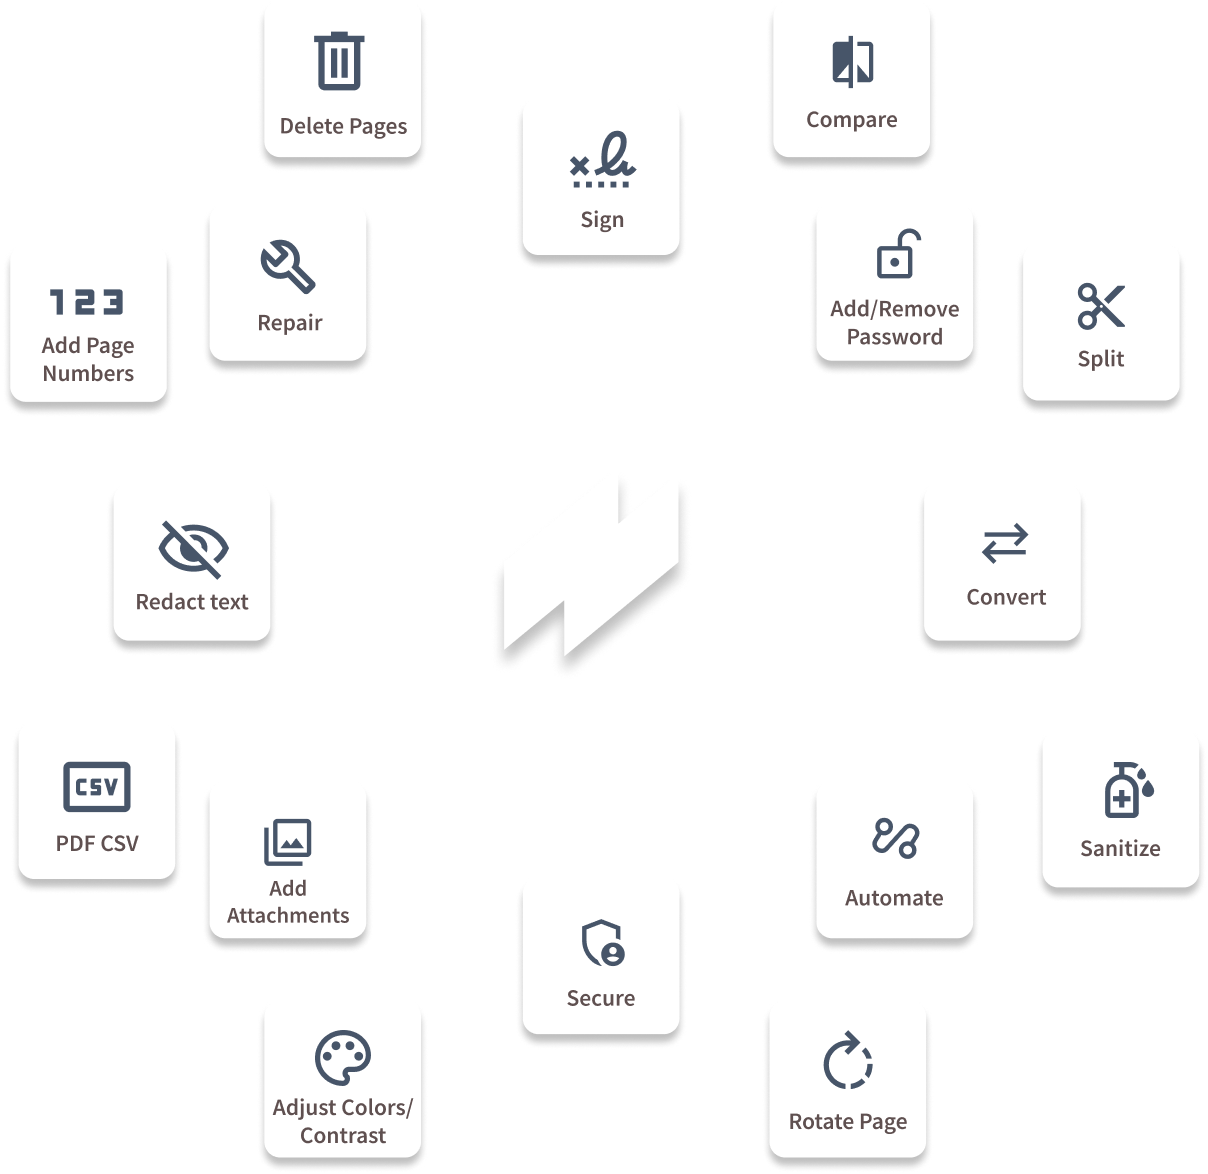
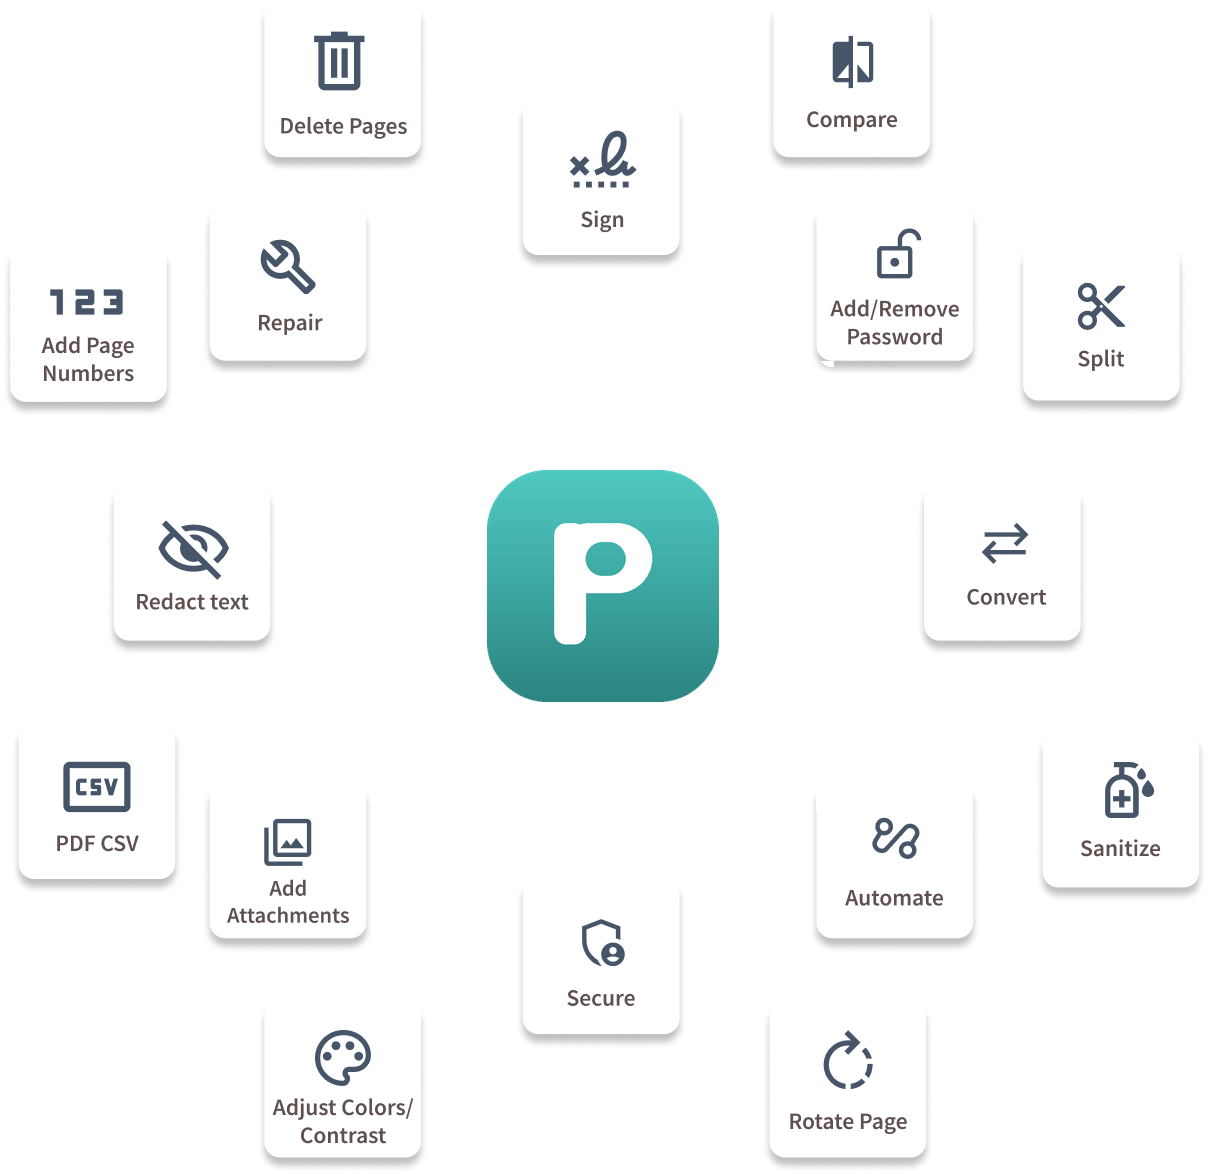
Rebrand remaining Stirling PDF surfaces to Papyra (#28)
* Rebrand onboarding sample PDF from Stirling PDF to Papyra

Regenerates the 3-page tour sample (frontend/editor/public/samples/Sample.pdf)
with Papyra branding: teal wordmark hero, 'What is Papyra?' overview, and a Key
Features page. Removes all 'Stirling PDF' wording and sets the document title to
'Papyra - Sample Document'. The previous sample rendered its text as subset-font
glyphs, so it was regenerated rather than edited in place.

Claude-Session: https://claude.ai/code/session_01Mn9YETALrSRYPj7KVzc6aG

* Rebrand 2FA authenticator issuer default to Papyra

The TOTP otpauth:// URI falls back to a hardcoded issuer when ui.appNameNavbar
is unset. It still read 'Stirling PDF', so authenticator apps enrolled the
account under the old brand even on a rebranded install. Change the default to
'Papyra' (matching the documented fallback in settings.yml.template) and update
TotpServiceTest's default-issuer assertion.

Claude-Session: https://claude.ai/code/session_01Mn9YETALrSRYPj7KVzc6aG

* Rebrand notification emails and signature summary to Papyra

Replaces the remaining user-facing Stirling PDF branding in proprietary output:

- EmailService: the invite, invite-link and password-changed emails now say
  Papyra (subjects, headings, body, CTAs, team signature, copyright), swap the
  hosted Stirling SVG logo for a styled Papyra wordmark, and use the Papyra teal
  (#3AAFA9) accent with a dark (#17252A) header instead of the old blue.
[…]

Changed region(s): [[0.3982, 0.3986, 0.6126, 0.6133]]

diff --git a/frontend/editor/src/proprietary/auth/ui/auth.css b/frontend/editor/src/proprietary/auth/ui/auth.css
@@ -150,7 +150,7 @@
 .auth-checkbox {
   width: 1rem; /* 16px */
   height: 1rem; /* 16px */
-  accent-color: #af3434;
+  accent-color: #3aafa9;
 }
 
 .auth-terms-label {
@@ -658,20 +658,20 @@
   color: var(--auth-text-primary-light-only);
 }
 
-/* Email login button - red CTA style matching SaaS version */
+/* Email login button - teal CTA style matching SaaS version */
 .auth-cta-button {
-  background-color: #af3434 !important;
+  background-color: #3aafa9 !important;
   color: white !important;
   border: none !important;
   font-weight: 600 !important;
 }
 
 .auth-cta-button:hover:not(:disabled) {
-  background-color: #9a2e2e !important;
+  background-color: #2b8480 !important;
 }
 
 .auth-cta-button:disabled {
-  background-color: #af3434 !important;
+  background-color: #3aafa9 !important;
   opacity: 0.6 !important;
 }
 
@@ -722,7 +722,7 @@
 }
 
 .auth-expandable-trigger--active {
-  border-color: #af3434 !important;
+  border-color: #3aafa9 !important;
   box-shadow: 0 0 0 3px rgba(175, 52, 52, 0.12);
 }
 

diff --git a/frontend/editor/src/proprietary/auth/ui/auth-theme.css b/frontend/editor/src/proprietary/auth/ui/auth-theme.css
@@ -11,7 +11,7 @@
   --auth-input-text-light-only: #111827;
   --auth-border-focus-light-only: #3b82f6;
   --auth-focus-ring-light-only: rgba(59, 130, 246, 0.1);
-  --auth-button-bg-light-only: #af3434;
+  --auth-button-bg-light-only: #3aafa9;
   --auth-button-text-light-only: #ffffff;
   --auth-magic-button-bg-light-only: #e5e7eb;
   --auth-magic-button-text-light-only: #374151;
@@ -33,7 +33,7 @@
   --auth-input-text-light-only: var(--text-primary);
   --auth-border-focus-light-only: #3b82f6;
   --auth-focus-ring-light-only: rgba(59, 130, 246, 0.2);
-  --auth-button-bg-light-only: #af3434;
+  --auth-button-bg-light-only: #3aafa9;
   --auth-button-text-light-only: #ffffff;
   --auth-magic-button-bg-light-only: var(--bg-raised);
   --auth-magic-button-text-light-only: var(--text-primary);

diff --git a/frontend/editor/src/proprietary/auth/ui/EmailPasswordForm.tsx b/frontend/editor/src/proprietary/auth/ui/EmailPasswordForm.tsx
@@ -131,7 +131,7 @@ export default function EmailPasswordForm({
         }
         fullWidth
         loading={isSubmitting}
-        // Stirling-red brand CTA; the brand accent sets the colour inline so the
+        // Papyra teal brand CTA; the brand accent sets the colour inline so the
         // host app's Mantine primaryColor can't win (editor vs portal differ).
         accent="brand"
       >

diff --git a/app/proprietary/src/main/java/stirling/software/proprietary/security/service/EmailService.java b/app/proprietary/src/main/java/stirling/software/proprietary/security/service/EmailService.java
@@ -158,7 +158,7 @@ public class EmailService {
     public void sendInviteEmail(
             String to, String username, String temporaryPassword, String loginUrl)
             throws MessagingException {
-        String subject = "Welcome to Stirling PDF";
+        String subject = "Welcome to Papyra";
 
         String body =
                 """
@@ -166,16 +166,16 @@ public class EmailService {
                 <div style="font-family: Arial, sans-serif; background-color: #f8f9fa; padding: 20px;">
                   <div style="max-width: 600px; margin: auto; background-color: #ffffff; border-radius: 8px; overflow: hidden; border: 1px solid #e0e0e0;">
                     <!-- Logo -->
-                    <div style="text-align: center; padding: 20px; background-color: #222;">
-                      <img src="https://raw.githubusercontent.com/Stirling-Tools/Stirling-PDF/main/docs/stirling-transparent.svg" alt="Stirling PDF" style="max-height: 60px;">
+                    <div style="text-align: center; padding: 20px; background-color: #17252A;">
+                      <span style="font-family: Arial, sans-serif; font-size: 30px; font-weight: bold; color: #3AAFA9; letter-spacing: 0.5px;">Papyra</span>
                     </div>
                     <!-- Content -->
                     <div style="padding: 30px; color: #333;">
-                      <h2 style="color: #222; margin-top: 0;">Welcome to Stirling PDF!</h2>
+                      <h2 style="color: #17252A; margin-top: 0;">Welcome to Papyra!</h2>
                       <p>Hi there,</p>
                       <p>You have been invited to join the workspace. Below are your login credentials:</p>
                       <!-- Credentials Box -->
-                      <div style="background-color: #f8f9fa; border-left: 4px solid #007bff; padding: 15px; margin: 20px 0; border-radius: 4px;">
+                      <div style="background-color: #f8f9fa; border-left: 4px solid #3AAFA9; padding: 15px; margin: 20px 0; border-radius: 4px;">
                         <p style="margin: 0 0 10px 0;"><strong>Username:</strong> %s</p>
                         <p style="margin: 0;"><strong>Temporary Password:</strong> %s</p>
                       </div>
@@ -184,18 +184,18 @@ public class EmailService {
                       </div>
                       <!-- CTA Button -->
                       <div style="text-align: center; margin: 30px 0;">
-                        <a href="%s" style="display: inline-block; background-color: #007bff; color: #ffffff; padding: 14px 28px; text-decoration: none; border-radius: 5px; font-weight: bold;">Log In to Stirling PDF</a>
+                        <a href="%s" style="display: inline-block; background-color: #3AAFA9; color: #ffffff; padding: 14px 28px; text-decoration: none; border-radius: 5px; font-weight: bold;">Log In to Papyra</a>
                       </div>
                       <p style="font-size: 14px; color: #666;">Or copy and paste this link in your browser:</p>
                       <div style="background-color: #f8f9fa; padding: 12px; margin: 15px 0; border-radius: 4px; word-break: break-all; font-size: 13px; color: #555;">
                         %s
                       </div>
                       <p>Please keep these credentials secure and do not share them with anyone.</p>
-                      <p style="margin-bottom: 0;">— The Stirling PDF Team</p>
+                      <p style="margin-bottom: 0;">— The Papyra Team</p>
                     </div>
                     <!-- Footer -->
                     <div style="text-align: center; padding: 15px; font-size: 12px; color: #777; background-color: #f0f0f0;">
-                      &copy; 2025 Stirling PDF. All rights reserved.
+                      &copy; Papyra. All rights reserved.
                     </div>
                   </div>
                 </div>
@@ -217,7 +217,7 @@ public class EmailService {
     @Async
     public void sendInviteLinkEmail(String to, String inviteUrl, String expiresAt)
             throws MessagingException {
-        String subject = "You've been invited to Stirling PDF";
+        String subject = "You've been invited to Papyra";
 
         String body =
                 """
@@ -225,17 +225,17 @@ public class EmailService {
                 <div style="font-family: Arial, sans-serif; background-color: #f8f9fa; padding: 20px;">
                   <div style="max-width: 600px; margin: auto; background-color: #ffffff; border-radius: 8px; overflow: hidden; border: 1px solid #e0e0e0;">
                     <!-- Logo -->
-                    <div style="text-align: center; padding: 20px; background-color: #222;">
-                      <img src="https://raw.githubusercontent.com/Stirling-Tools/Stirling-PDF/main/docs/stirling-transparent.svg" alt="Stirling PDF" style="max-height: 60px;">
+                    <div style="text-align: center; padding: 20px; background-color: #17252A;">
+                      <span style="font-family: Arial, sans-serif; font-size: 30px; font-weight: bold; color: #3AAFA9; letter-spacing: 0.5px;">Papyra</span>
                     </div>
                     <!-- Content -->
                     <div style="padding: 30px; color: #333;">
-                      <h2 style="color: #222; margin-top: 0;">Welcome to Stirling PDF!</h2>
+                      <h2 style="color: #17252A; margin-top: 0;">Welcome to Papyra!</h2>
                       <p>Hi there,</p>
-                      <p>You have been invited to join the Stirling PDF workspace. Click the button below to set up your account:</p>
+                      <p>You have been invited to join the Papyra workspace. Click the button below to set up your account:</p>
                       <!-- CTA Button -->
                       <div style="text-align: center; margin: 30px 0;">
-                        <a href="%s" style="display: inline-block; background-color: #007bff; color: #ffffff; padding: 14px 28px; text-decoration: none; border-radius: 5px; font-weight: bold;">Accept Invitation</a>
+                        <a href="%s" style="display: inline-block; background-color: #3AAFA9; color: #ffffff; padding: 14px 28px; text-decoration: none; border-radius: 5px; font-weight: bold;">Accept Invitation</a>
                       </div>
                       <p style="font-size: 14px; color: #666;">Or copy and paste this link in your browser:</p>
                       <div style="background-color: #f8f9fa; padding: 12px; margin: 15px 0; border-radius: 4px; word-break: break-all; font-size: 13px; color: #555;">
@@ -245,11 +245,11 @@ public class EmailService {
                         <p style="margin: 0; color: #856404; font-size: 14px;"><strong>⚠️ Important:</strong> This invitation link will expire on %s. Please complete your registration before then.</p>
                       </div>
                       <p>If you didn't expect this invitation, you can safely ignore this email.</p>
-                      <p style="margin-bottom: 0;">— The Stirling PDF Team</p>
+                      <p style="margin-bottom: 0;">— The Papyra Team</p>
                     </div>
                     <!-- Footer -->
                     <div style="text-align: center; padding: 15px; font-size: 12px; color: #777; background-color: #f0f0f0;">
-                      &copy; 2025 Stirling PDF. All rights reserved.
+                      &copy; Papyra. All rights reserved.
                     </div>
                   </div>
                 </div>
@@ -264,13 +264,13 @@ public class EmailService {
     public void sendPasswordChangedNotification(
             String to, String username, String newPassword, String loginUrl)
             throws MessagingException {
-        String subject = "Your Stirling PDF password has been updated";
+        String subject = "Your Papyra password has been updated";
 
         String passwordSection =
                 newPassword == null
                         ? ""
                         : """
-                          <div style=\"background-color: #f8f9fa; border-left: 4px solid #007bff; padding: 15px; margin: 20px 0; border-radius: 4px;\">
+                          <div style=\"background-color: #f8f9fa; border-left: 4px solid #3AAFA9; padding: 15px; margin: 20px 0; border-radius: 4px;\">
                             <p style=\"margin: 0;\"><strong>Temporary Password:</strong> %s</p>
                           </div>
                         """
@@ -281,17 +281,17 @@ public class EmailService {
                 <html><body style=\"margin: 0; padding: 0;\">
                 <div style=\"font-family: Arial, sans-serif; background-color: #f8f9fa; padding: 20px;\">
                   <div style=\"max-width: 600px; margin: auto; background-color: #ffffff; border-radius: 8px; overflow: hidden; border: 1px solid #e0e0e0;\">
-                    <div style=\"text-align: center; padding: 20px; background-color: #222;\">
-                      <img src=\"https://raw.githubusercontent.com/Stirling-Tools/Stirling-PDF/main/docs/stirling-transparent.svg\" alt=\"Stirling PDF\" style=\"max-height: 60px;\">
+                    <div style=\"text-align: center; padding: 20px; background-color: #17252A;\">
+                      <span style=\"font-family: Arial, sans-serif; font-size: 30px; font-weight: bold; color: #3AAFA9; letter-spacing: 0.5px;\">Papyra</span>
                     </div>
                     <div style=\"padding: 30px; color: #333;\">
-                      <h2 style=\"color: #222; margin-top: 0;\">Your password was changed</h2>
+                      <h2 style=\"color: #17252A; margin-top: 0;\">Your password was changed</h2>
                       <p>Hello %s,</p>
-                      <p>An administrator has updated the password for your Stirling PDF account.</p>
+                      <p>An administrator has updated the password for your Papyra account.</p>
                       %s
                       <p>If you did not expect this change, please contact your administrator immediately.</p>
                       <div style=\"text-align: center; margin: 30px 0;\">
-                        <a href=\"%s\" style=\"display: inline-block; background-color: #007bff; color: #ffffff; padding: 14px 28px; text-decoration: none; border-radius: 5px; font-weight: bold;\">Go to Stirling PDF</a>
+                        <a href=\"%s\" style=\"display: inline-block; background-color: #3AAFA9; color: #ffffff; padding: 14px 28px; text-decoration: none; border-radius: 5px; font-weight: bold;\">Go to Papyra</a>
                       </div>
                       <p style=\"font-size: 14px; color: #666;\">Or copy and paste this link in your browser:</p>
                       <div style=\"background-color: #f8f9fa; padding: 12px; margin: 15px 0; border-radius: 4px; word-break: break-all; font-size: 13px; color: #555;\">
@@ -299,7 +299,7 @@ public class EmailService {
                       </div>
                     </div>
                     <div style=\"text-align: center; padding: 15px; font-size: 12px; color: #777; background-color: #f0f0f0;\">
-                      &copy; 2025 Stirling PDF. All rights reserved.
+                      &copy; Papyra. All rights reserved.
                     </div>
                   </div>
                 </div>

diff --git a/app/proprietary/src/main/java/stirling/software/proprietary/workflow/service/SigningFinalizationService.java b/app/proprietary/src/main/java/stirling/software/proprietary/workflow/service/SigningFinalizationService.java
@@ -357,7 +357,7 @@ public class SigningFinalizationService {
                 final float logoY = PAGE_H - HEADER_H + (HEADER_H - LOGO_H) / 2f;
                 try {
                     ClassPathResource logoRes =
-                            new ClassPathResource("static/images/stirling-logo-white.png");
+                            new ClassPathResource("static/images/papyra-logo-white.png");
                     try (InputStream logoIn = logoRes.getInputStream()) {
                         BufferedImage logoImg = ImageIO.read(logoIn);
                         if (logoImg != null) {
@@ -368,14 +368,12 @@ public class SigningFinalizationService {
                     }
                 } catch (Exception e) {
                     // Fallback: just draw the name as text
-                    log.debug(
-                            "Could not load Stirling-PDF logo for summary page: {}",
-                            e.getMessage());
+                    log.debug("Could not load Papyra logo for summary page: {}", e.getMessage());
                     cs.setNonStrokingColor(Color.WHITE);
                     cs.beginText();
                     cs.setFont(fontBold, 13);
                     cs.newLineAtOffset(logoX, PAGE_H - 28);
-                    cs.showText("Stirling PDF");
+                    cs.showText("Papyra");
                     cs.endText();
                 }
 
@@ -752,7 +750,7 @@ public class SigningFinalizationService {
                 cs.lineTo(PAGE_W - MARGIN, 44);
                 cs.stroke();
 
-                String footerText = "Generated by Stirling-PDF";
+                String footerText = "Generated by Papyra";
                 float footerTextW = fontReg.getStringWidth(footerText) / 1000f * 9;
                 cs.setNonStrokingColor(textMuted);
                 cs.beginText();

diff --git a/app/proprietary/src/main/java/stirling/software/proprietary/security/service/TotpService.java b/app/proprietary/src/main/java/stirling/software/proprietary/security/service/TotpService.java
@@ -32,7 +32,7 @@ public class TotpService {
     private static final int CODE_DIGITS = 6;
     private static final int PERIOD_SECONDS = 30;
     private static final String HMAC_ALGORITHM = "HmacSHA1";
-    private static final String DEFAULT_ISSUER = "Stirling PDF";
+    private static final String DEFAULT_ISSUER = "Papyra";
     private static final SecureRandom SECURE_RANDOM = new SecureRandom();
     private static final Pattern TOTP_CODE_PATTERN = Pattern.compile("\\d{6}");
 

diff --git a/app/proprietary/src/test/java/stirling/software/proprietary/security/service/TotpServiceTest.java b/app/proprietary/src/test/java/stirling/software/proprietary/security/service/TotpServiceTest.java
@@ -86,7 +86,7 @@ class TotpServiceTest {
 
         String uri = service.buildOtpAuthUri("[email redacted]", "SECRET");
 
-        assertTrue(uri.contains("issuer=Stirling%20PDF"));
+        assertTrue(uri.contains("issuer=Papyra"));
     }
 
     private String generateCode(TotpService service, byte[] secretBytes, long timeStep)